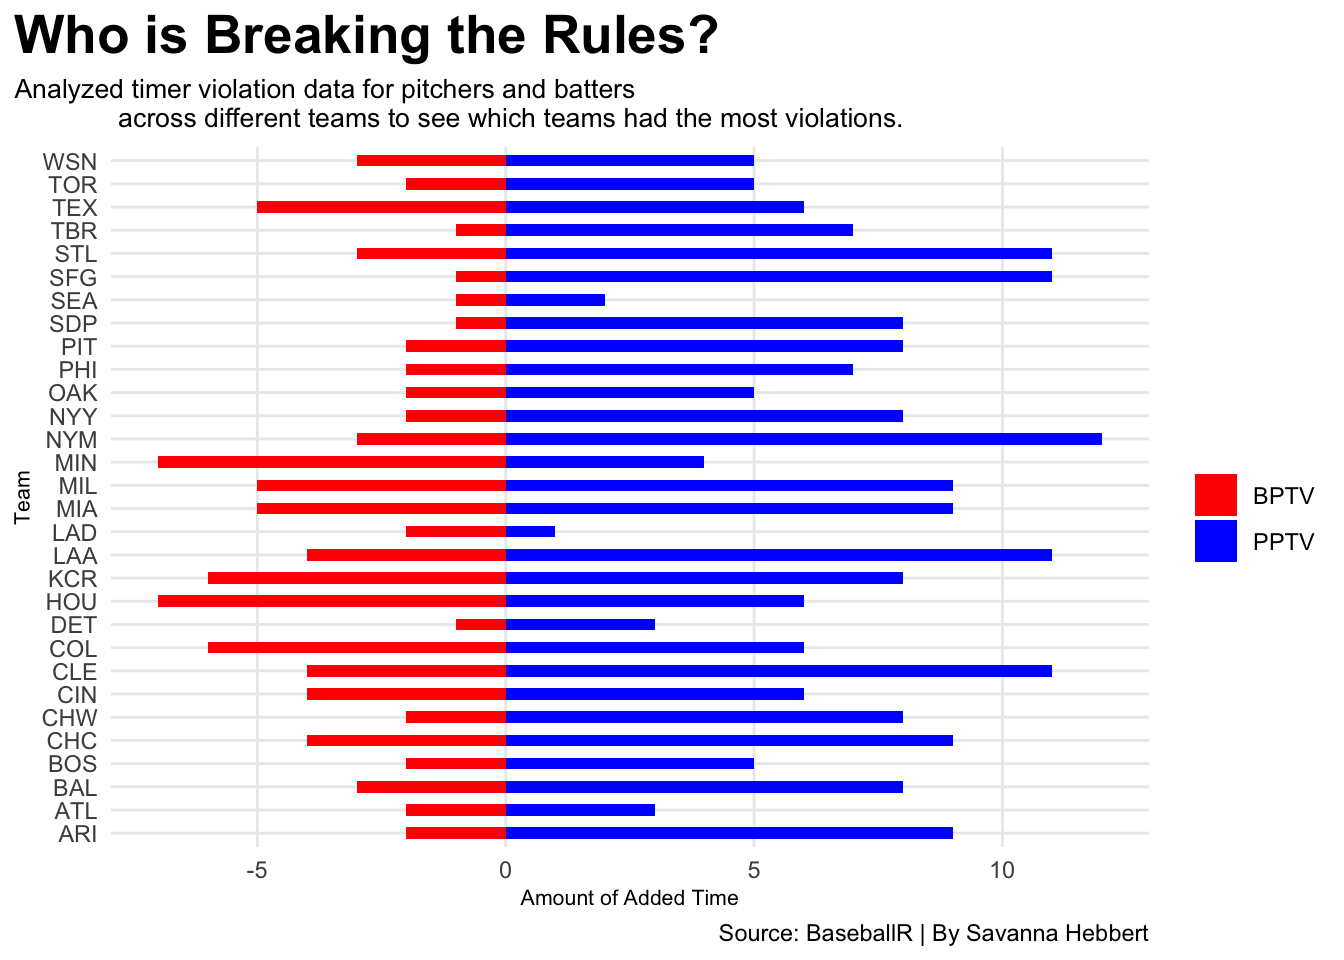
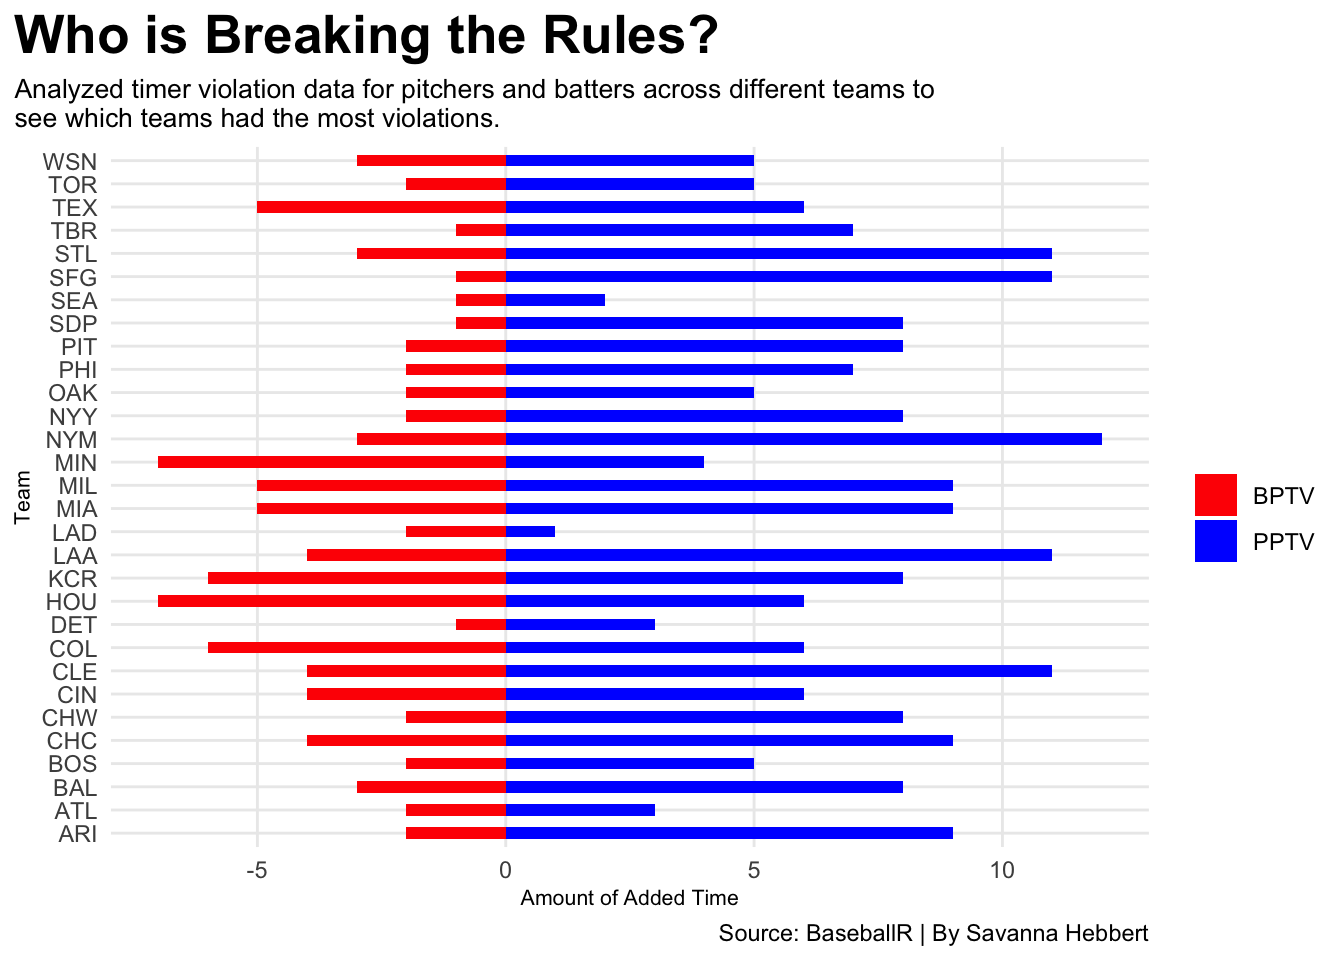
finalpost

Changed region(s): [[0.0312, 0.0625, 0.6875, 0.1562]]

diff --git a/posts/are-baseball-games-getting-shorter/index.html b/posts/are-baseball-games-getting-shorter/index.html
@@ -301,18 +301,17 @@ code span.wa { color: #60a0b0; font-weight: bold; font-style: italic; } /* Warni
 <span id="cb2-6"><a href="#cb2-6" aria-hidden="true" tabindex="-1"></a>    <span class="at">x=</span><span class="st">"Team"</span>, </span>
 <span id="cb2-7"><a href="#cb2-7" aria-hidden="true" tabindex="-1"></a>    <span class="at">y=</span><span class="st">"Amount of Added Time"</span>, </span>
 <span id="cb2-8"><a href="#cb2-8" aria-hidden="true" tabindex="-1"></a>    <span class="at">title=</span><span class="st">"Who is Breaking the Rules?"</span>, </span>
-<span id="cb2-9"><a href="#cb2-9" aria-hidden="true" tabindex="-1"></a>    <span class="at">subtitle=</span><span class="st">"Analyzed timer violation data for pitchers and batters\</span></span>
-<span id="cb2-10"><a href="#cb2-10" aria-hidden="true" tabindex="-1"></a><span class="st">              across different teams to see which teams had the most violations."</span>, </span>
-<span id="cb2-11"><a href="#cb2-11" aria-hidden="true" tabindex="-1"></a>    <span class="at">caption=</span><span class="st">"Source: BaseballR | By Savanna Hebbert"</span></span>
-<span id="cb2-12"><a href="#cb2-12" aria-hidden="true" tabindex="-1"></a>    )  <span class="sc">+</span></span>
-<span id="cb2-13"><a href="#cb2-13" aria-hidden="true" tabindex="-1"></a>  <span class="fu">scale_fill_manual</span>(<span class="at">name=</span><span class="st">""</span>, <span class="at">values=</span><span class="fu">c</span>(<span class="st">"PPTV"</span><span class="ot">=</span><span class="st">"blue"</span>, <span class="st">"BPTV"</span><span class="ot">=</span><span class="st">"red"</span>)) <span class="sc">+</span></span>
-<span id="cb2-14"><a href="#cb2-14" aria-hidden="true" tabindex="-1"></a><span class="fu">theme_minimal</span>() <span class="sc">+</span></span>
-<span id="cb2-15"><a href="#cb2-15" aria-hidden="true" tabindex="-1"></a>  <span class="fu">theme</span>(</span>
-<span id="cb2-16"><a href="#cb2-16" aria-hidden="true" tabindex="-1"></a>    <span class="at">plot.title =</span> <span class="fu">element_text</span>(<span class="at">size =</span> <span class="dv">20</span>, <span class="at">face =</span> <span class="st">"bold"</span>),</span>
-<span id="cb2-17"><a href="#cb2-17" aria-hidden="true" tabindex="-1"></a>    <span class="at">axis.title =</span> <span class="fu">element_text</span>(<span class="at">size =</span> <span class="dv">8</span>), </span>
-<span id="cb2-18"><a href="#cb2-18" aria-hidden="true" tabindex="-1"></a>    <span class="at">plot.subtitle =</span> <span class="fu">element_text</span>(<span class="at">size=</span><span class="dv">10</span>), </span>
-<span id="cb2-19"><a href="#cb2-19" aria-hidden="true" tabindex="-1"></a>    <span class="at">panel.grid.minor =</span> <span class="fu">element_blank</span>(),</span>
-<span id="cb2-20"><a href="#cb2-20" aria-hidden="true" tabindex="-1"></a>    <span class="at">plot.title.position =</span> <span class="st">"plot"</span>)</span></code><button title="Copy to Clipboard" class="code-copy-button"><i class="bi"></i></button></pre></div>
+<span id="cb2-9"><a href="#cb2-9" aria-hidden="true" tabindex="-1"></a>    <span class="at">subtitle=</span><span class="st">"Analyzed timer violation data for pitchers and batters across different teams to </span><span class="sc">\n</span><span class="st">see which teams had the most violations."</span>, </span>
+<span id="cb2-10"><a href="#cb2-10" aria-hidden="true" tabindex="-1"></a>    <span class="at">caption=</span><span class="st">"Source: BaseballR | By Savanna Hebbert"</span></span>
+<span id="cb2-11"><a href="#cb2-11" aria-hidden="true" tabindex="-1"></a>    )  <span class="sc">+</span></span>
+<span id="cb2-12"><a href="#cb2-12" aria-hidden="true" tabindex="-1"></a>  <span class="fu">scale_fill_manual</span>(<span class="at">name=</span><span class="st">""</span>, <span class="at">values=</span><span class="fu">c</span>(<span class="st">"PPTV"</span><span class="ot">=</span><span class="st">"blue"</span>, <span class="st">"BPTV"</span><span class="ot">=</span><span class="st">"red"</span>)) <span class="sc">+</span></span>
+<span id="cb2-13"><a href="#cb2-13" aria-hidden="true" tabindex="-1"></a><span class="fu">theme_minimal</span>() <span class="sc">+</span></span>
+<span id="cb2-14"><a href="#cb2-14" aria-hidden="true" tabindex="-1"></a>  <span class="fu">theme</span>(</span>
+<span id="cb2-15"><a href="#cb2-15" aria-hidden="true" tabindex="-1"></a>    <span class="at">plot.title =</span> <span class="fu">element_text</span>(<span class="at">size =</span> <span class="dv">20</span>, <span class="at">face =</span> <span class="st">"bold"</span>),</span>
+<span id="cb2-16"><a href="#cb2-16" aria-hidden="true" tabindex="-1"></a>    <span class="at">axis.title =</span> <span class="fu">element_text</span>(<span class="at">size =</span> <span class="dv">8</span>), </span>
+<span id="cb2-17"><a href="#cb2-17" aria-hidden="true" tabindex="-1"></a>    <span class="at">plot.subtitle =</span> <span class="fu">element_text</span>(<span class="at">size=</span><span class="dv">10</span>), </span>
+<span id="cb2-18"><a href="#cb2-18" aria-hidden="true" tabindex="-1"></a>    <span class="at">panel.grid.minor =</span> <span class="fu">element_blank</span>(),</span>
+<span id="cb2-19"><a href="#cb2-19" aria-hidden="true" tabindex="-1"></a>    <span class="at">plot.title.position =</span> <span class="st">"plot"</span>)</span></code><button title="Copy to Clipboard" class="code-copy-button"><i class="bi"></i></button></pre></div>
 </details>
 <div class="cell-output-display">
 <p><img src="index_files/figure-html/unnamed-chunk-1-2.png" class="img-fluid" width="672"></p>

diff --git a/index.html b/index.html
@@ -171,7 +171,7 @@ ul.task-list li input[type="checkbox"] {
 
 <div class="quarto-listing quarto-listing-container-default" id="listing-listing">
 <div class="list quarto-listing-default">
-<div class="quarto-post image-right" data-index="0" data-categories="averagelength,violations,pitchpace" data-listing-date-sort="1683435600000" data-listing-file-modified-sort="1683312583078" data-listing-reading-time-sort="4.825">
+<div class="quarto-post image-right" data-index="0" data-categories="averagelength,violations,pitchpace" data-listing-date-sort="1683435600000" data-listing-file-modified-sort="1683313561931" data-listing-reading-time-sort="4.76">
 <div class="thumbnail">
 <p><a href="./posts/are-baseball-games-getting-shorter/index.html"> <img src="./posts/are-baseball-games-getting-shorter/image.png" class="thumnail-image"> </a></p>
 </div>
